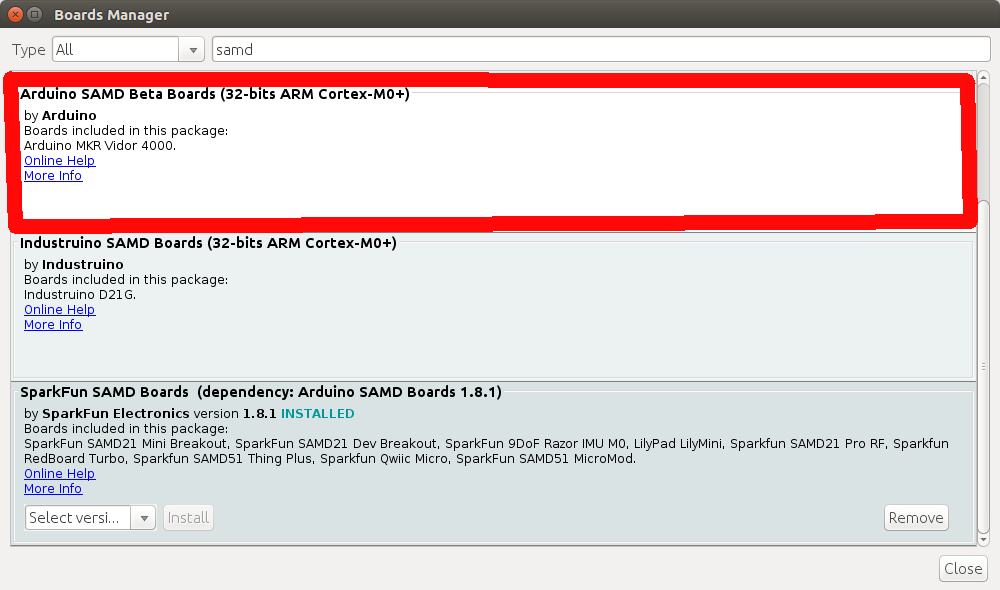
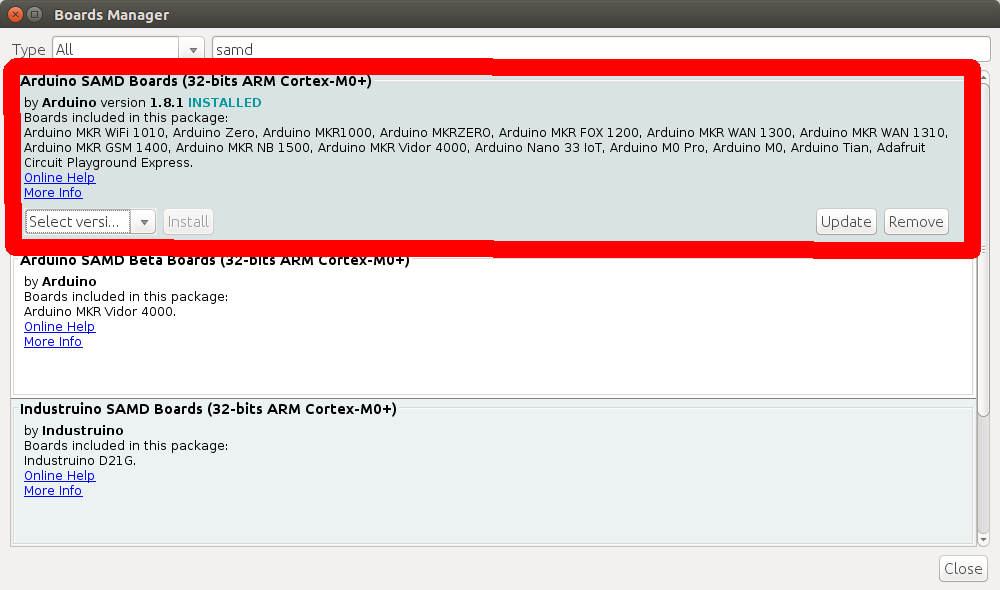
update readme

diff --git a/readme.md b/readme.md
@@ -131,11 +131,12 @@ To teleop, use this commend on either ubiquityrobot.local terminal or your local
 # Hardware #
 
 ## 9DoF Razor IMU ##
-Documentation can be found [here](https://learn.sparkfun.com/tutorials/9dof-razor-imu-m0-hookup-guide)
+
+Please read the documentation for the [9DoF Razor IMU](https://learn.sparkfun.com/tutorials/9dof-razor-imu-m0-hookup-guide) first.
 
 [This](http://wiki.ros.org/razor_imu_9dof) ROS package was used to interface with the system.
 
-Note that when installing the SparkFun Board library in [Arduino IDE](https://www.arduino.cc/en/software), install this library *first*
+Note that when installing the SparkFun Board library in [Arduino IDE](https://www.arduino.cc/en/software), install this library *first*, and make sure you choose the version *1.8.1*
 
 ![arduino samd library](https://eng-git.canterbury.ac.nz/jhw83/weeding-robot/-/raw/master/weeding_robot_description/pictures/Arduino_SAMD.png)
 
